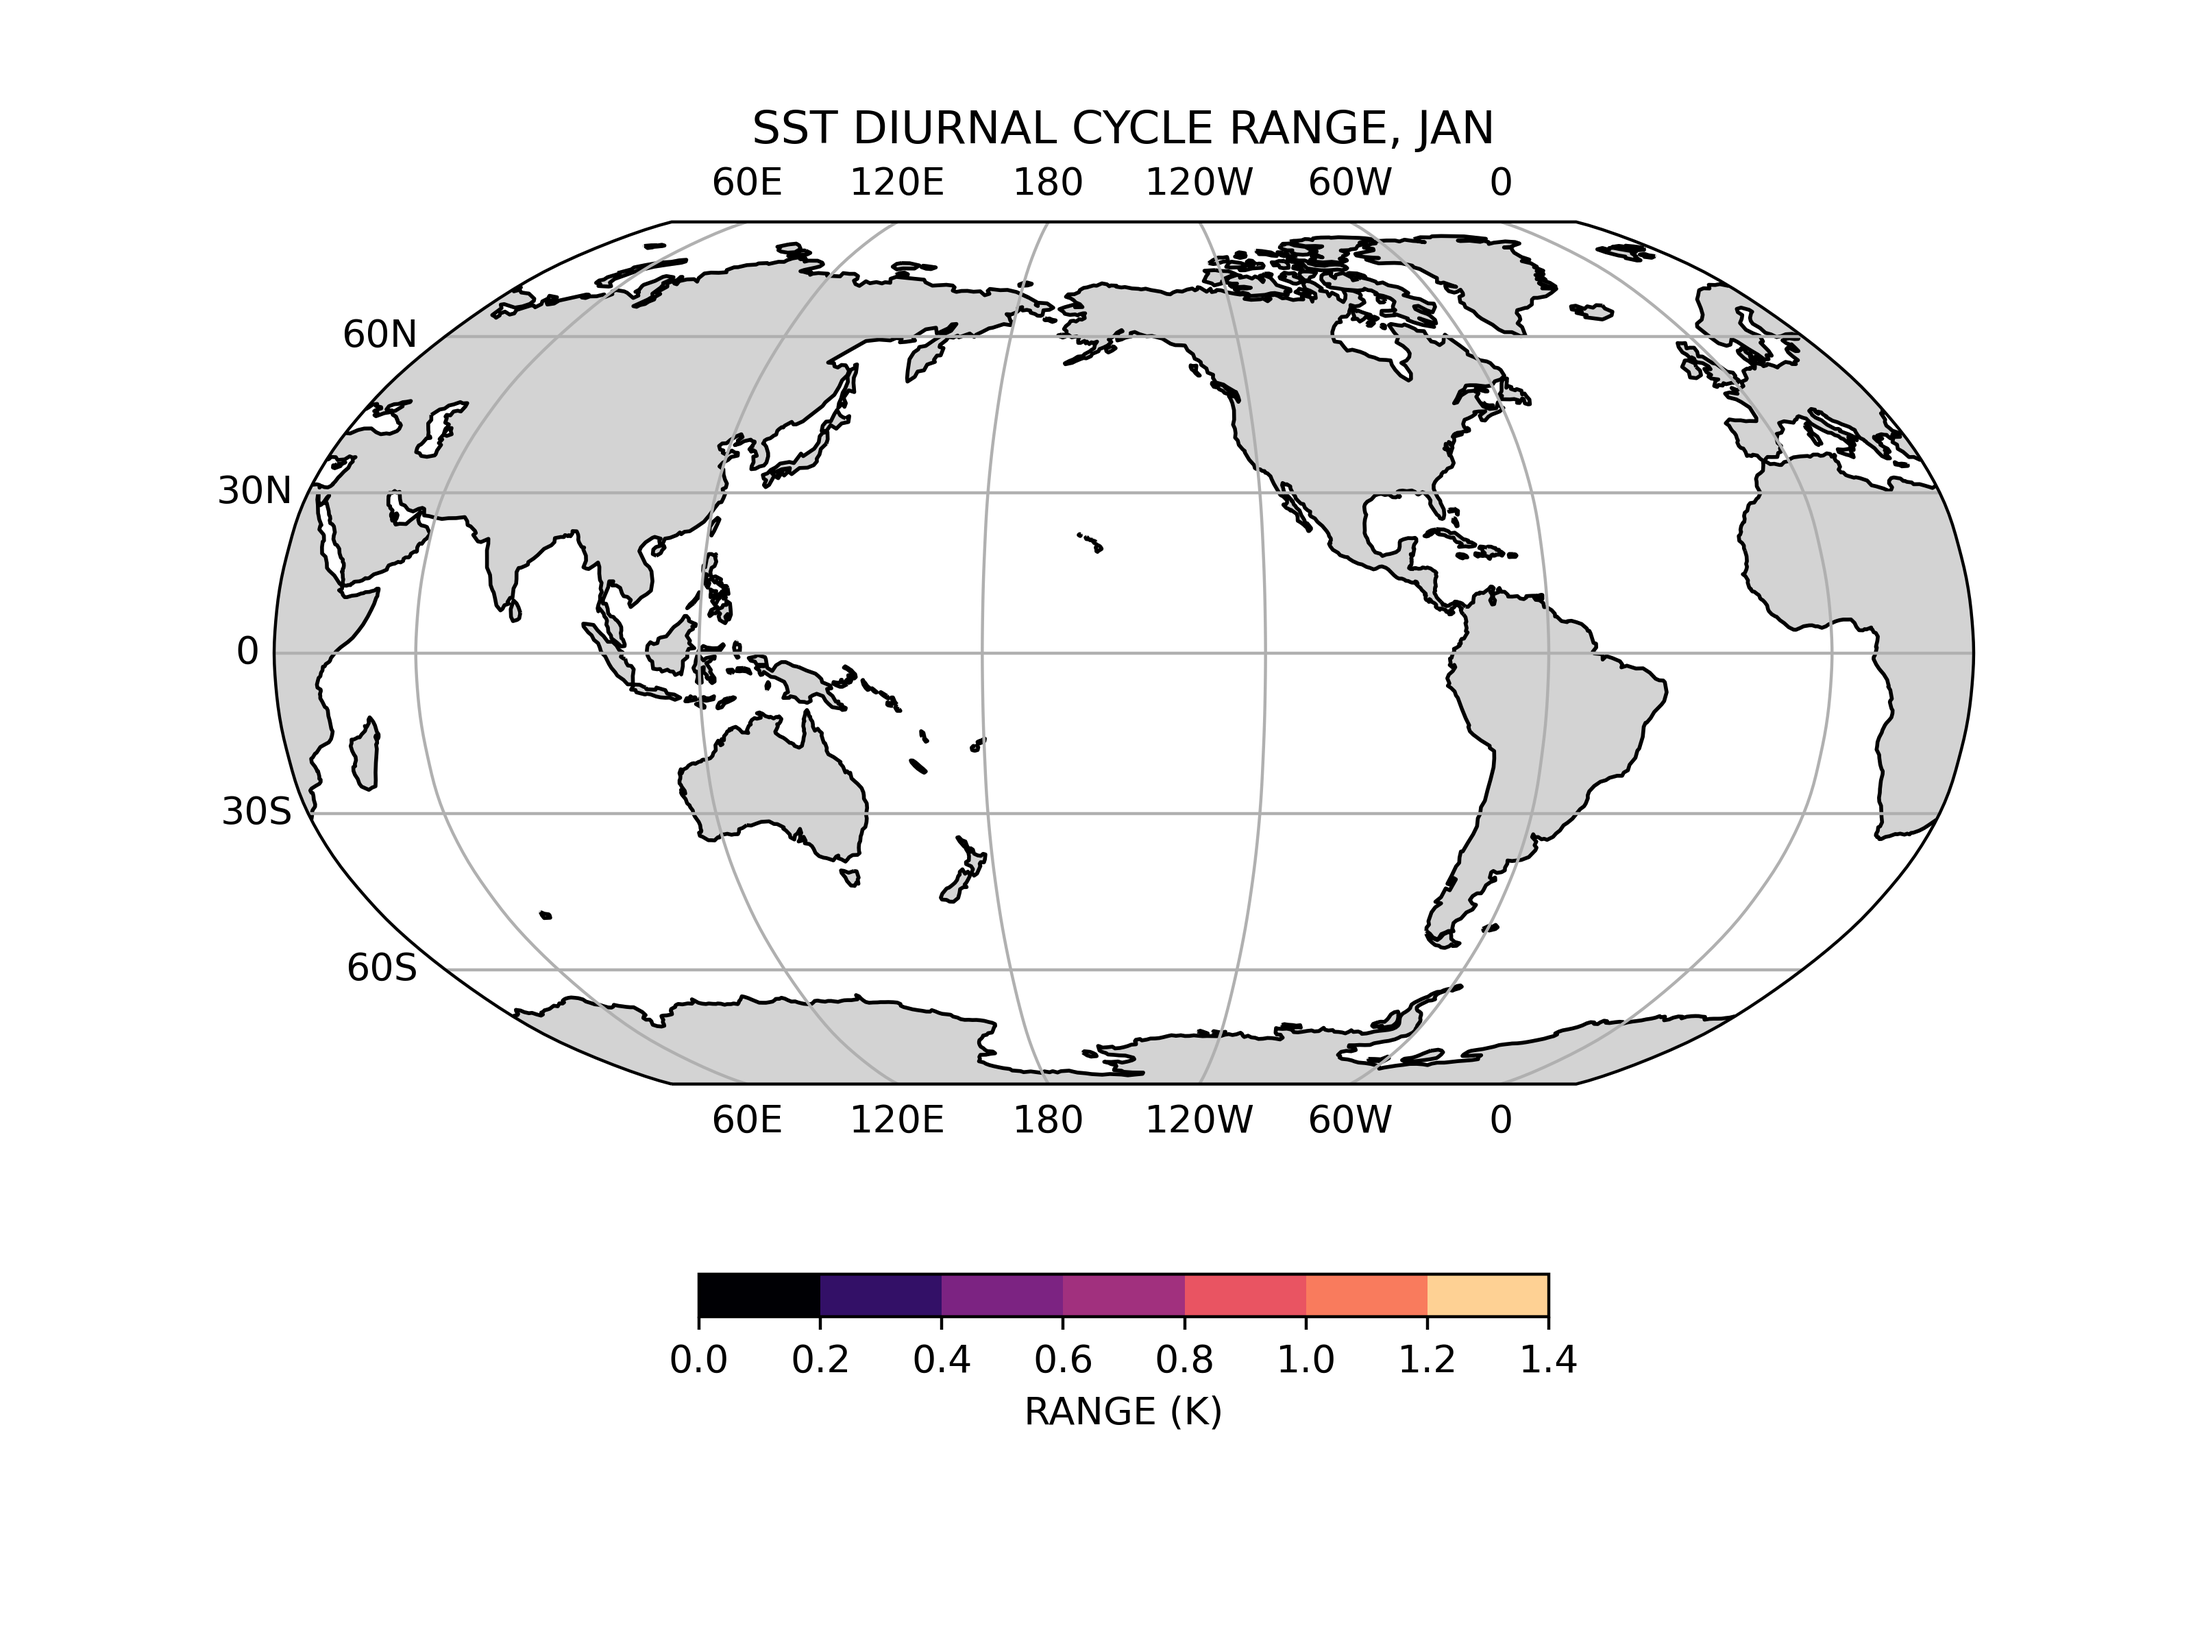
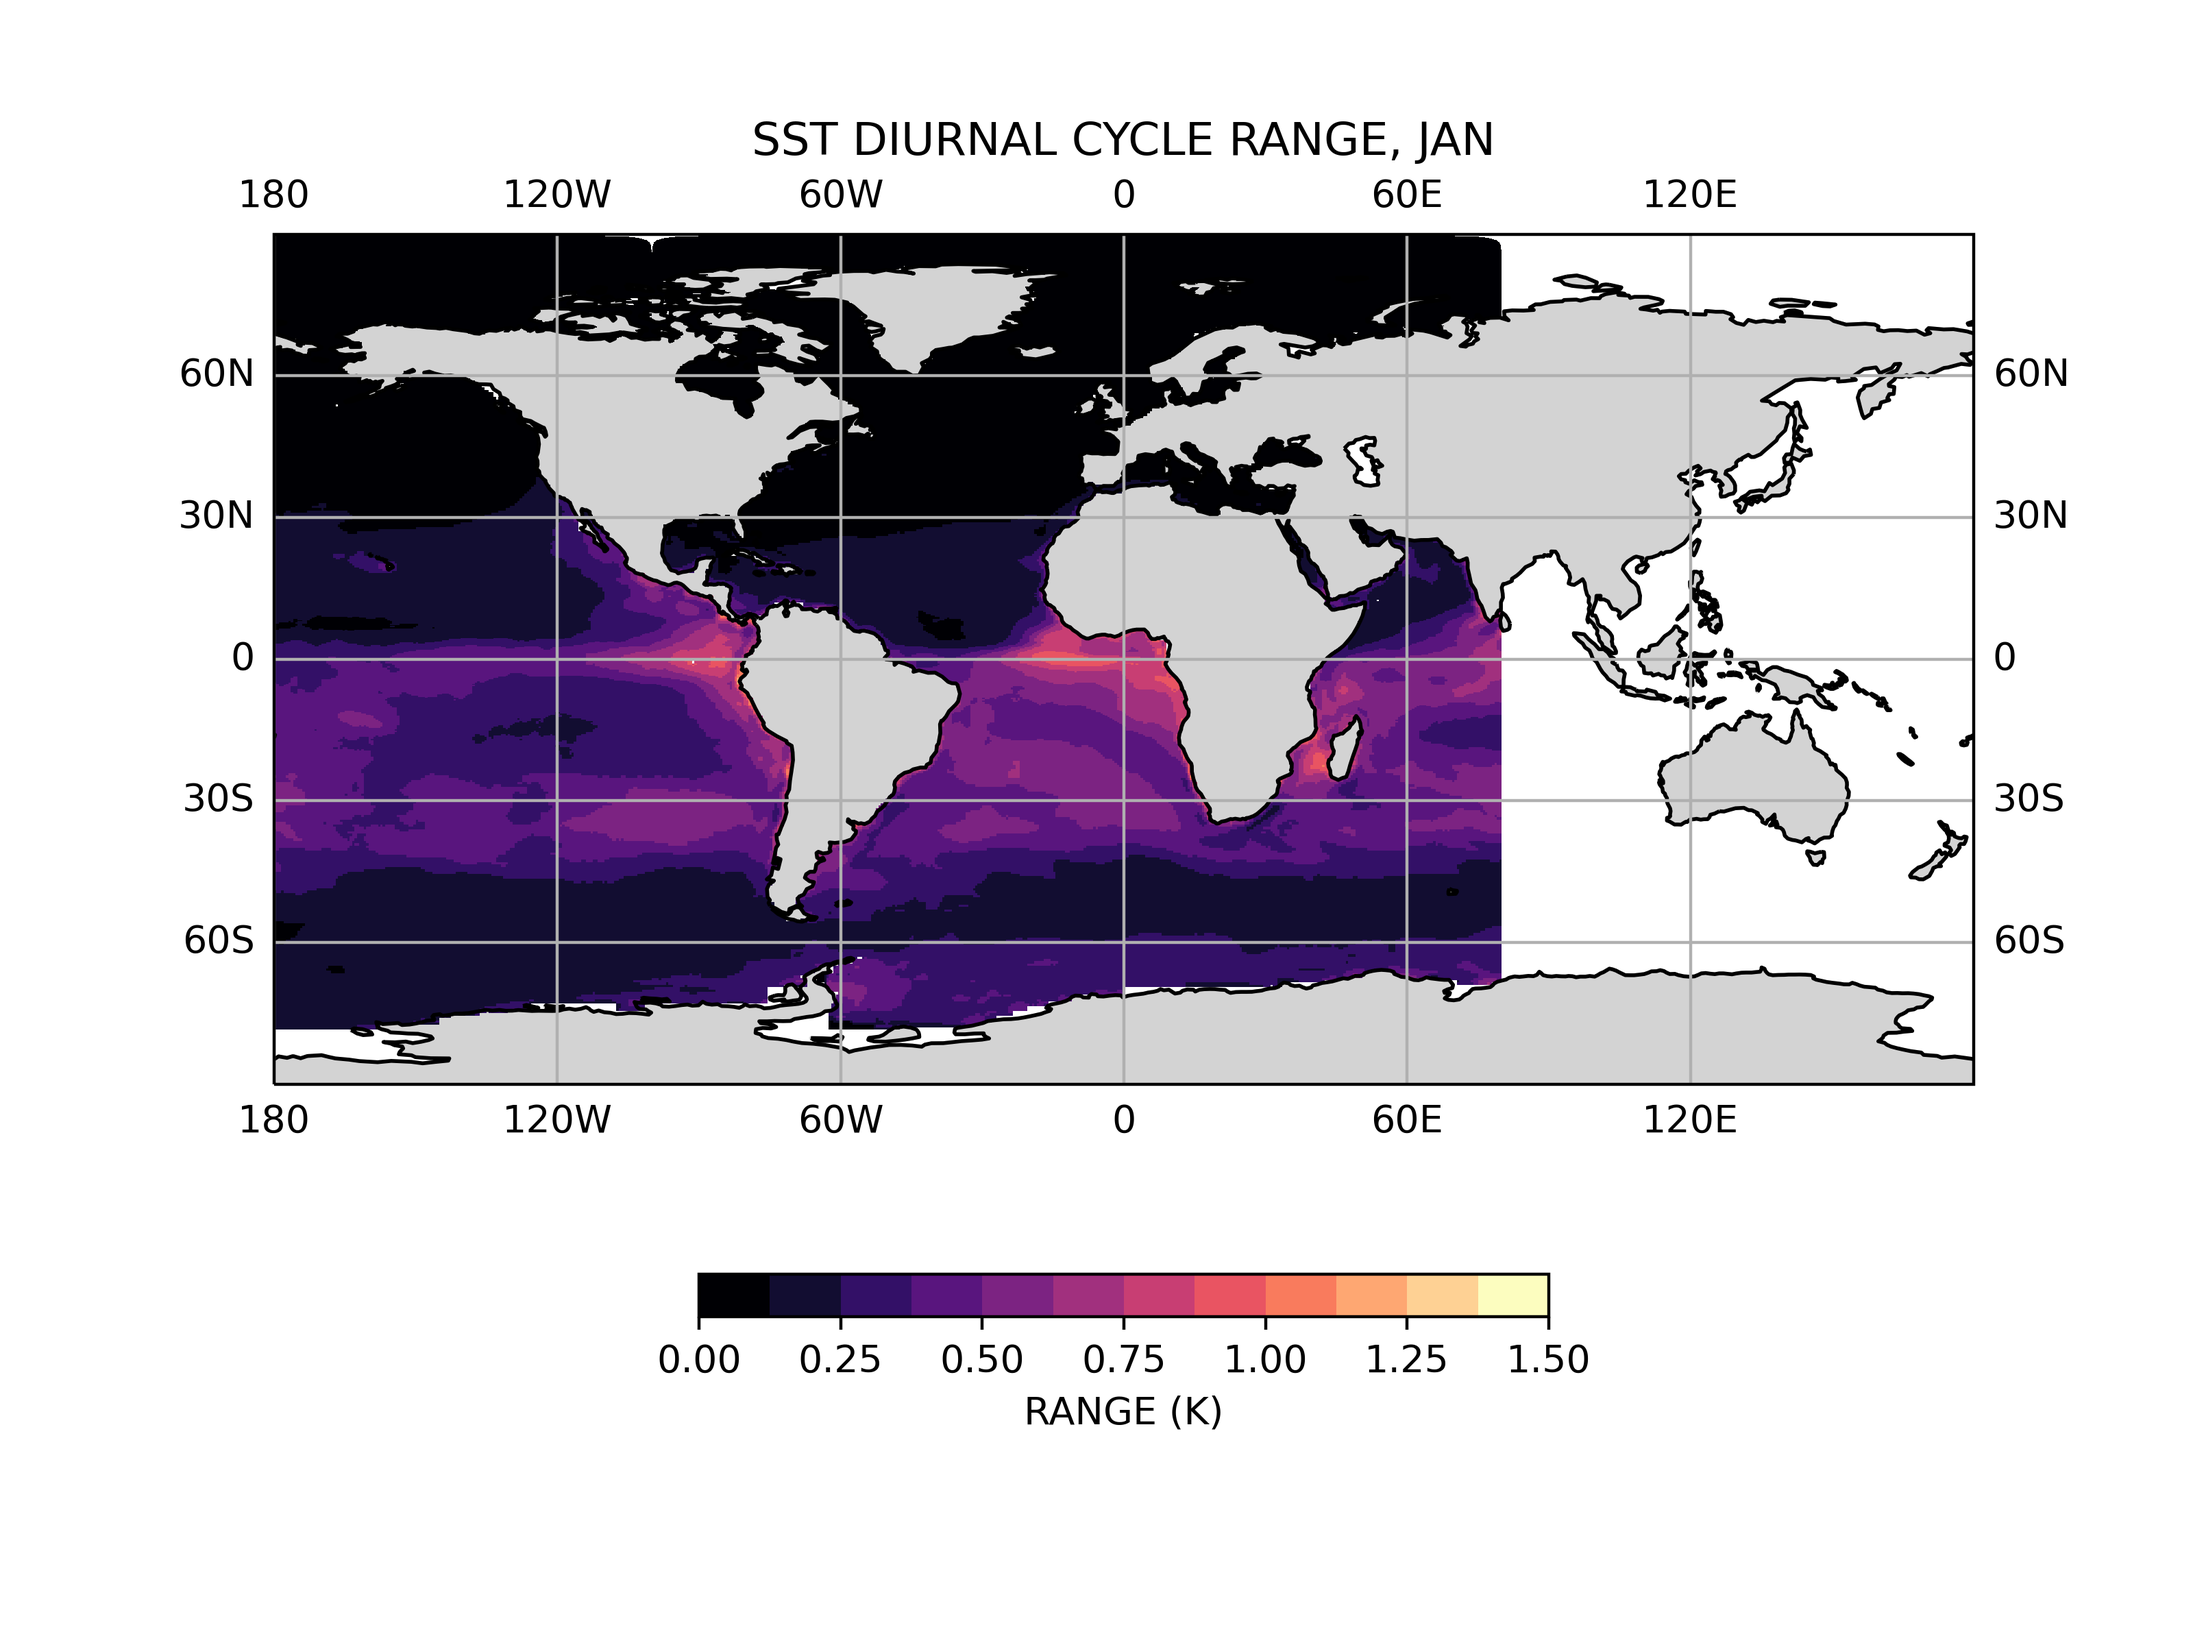
Updates test plot.

diff --git a/diurnal_cycle/analysis/diurnal_range_maps.py b/diurnal_cycle/analysis/diurnal_range_maps.py
@@ -185,7 +185,7 @@ def plot_one_map(ds, ptype, pvar, mon):
     
     # Set up figure and axes.
     fig = plt.figure(figsize=(8, 6))
-    map_proj = ccrs.Robinson(central_longitude=-150)
+    map_proj = ccrs.PlateCarree() #ccrs.Robinson(central_longitude=-150)
     ax = fig.add_subplot(111, projection=map_proj)
     ax.set_global()
     gl = ax.gridlines(draw_labels=True,
@@ -207,11 +207,11 @@ def plot_one_map(ds, ptype, pvar, mon):
     
     # Plot the data.
     import pdb; pdb.set_trace()
-    p = ax.contourf(ds[plot_dets(pvar, 'lonname')].data,
-                    ds[plot_dets(pvar, 'latname')].data,
-		    ds[ptype].data,
-                    transform=map_proj,
-                    cmap=cmap_b, norm=norm_b, shading='nearest')
+    p = ax.pcolormesh(ds[plot_dets(pvar, 'lonname')].data,
+                      ds[plot_dets(pvar, 'latname')].data,
+		      ds[ptype].data,
+                      transform=map_proj,
+                      cmap=cmap_b, norm=norm_b, shading='nearest')
     
     # Finish up figure.
     ax.set_title(plot_dets(pvar, 'plotname') + ' DIURNAL CYCLE ' + ptype
